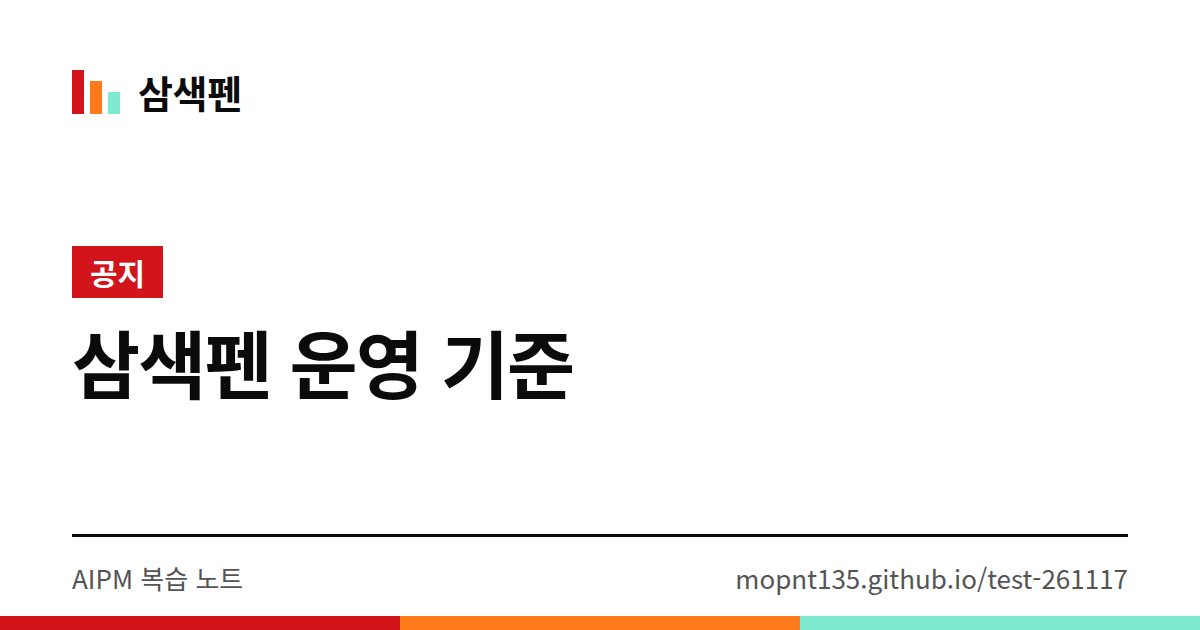
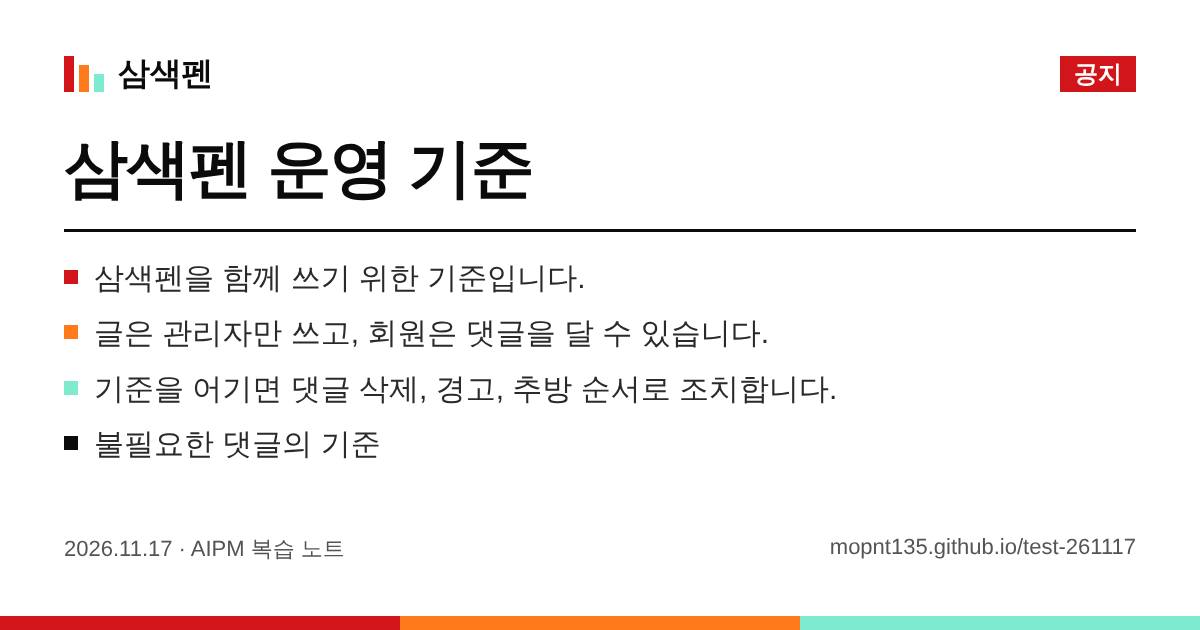
썸네일에 글 내용과 첫 첨부 사진 넣기
왜: 지금까지 썸네일은 제목만 다른 같은 모양이라 글끼리 구분이 어려웠다.
사용자 요청에 따라 글 내용이 보이는 이미지로 바꾼다.

- 카드: 제목(두 줄까지) + 본문 앞 3~4줄(빨강, 주황, 민트 표시) + 날짜.
  검색 설명이 있으면 첫 줄로 쓴다.
- 공개글에 JPG, PNG, GIF 첨부가 있으면 첫 사진을 오른쪽에 넣는다.
  공개용 키로 임시 주소를 받아 내려받고, 파일 서명으로 형식을 다시 확인한다.
- 카드 디자인 번호(CARD_DESIGN)를 ?v= 에 넣어, 디자인이 바뀌면
  카카오톡도 새 그림을 가져가게 했다. 그래서 G4 기대값을 imgVersion() 으로 바꿨다.
- 테스트 G14~G17 추가: 카드 글자 처리, 앞줄 자르기, 가짜 사진과
  폴더 밖 경로 거절, 글마다 다른 1200x630 그림.
- 테스트: 생성기 17/17, 화면 61/61, 서버 25/25.

Claude-Session: https://claude.ai/code/session_017BmF8tWy4fF2npSe36hDSh

diff --git a/scripts/build-pages.js b/scripts/build-pages.js
@@ -24,6 +24,7 @@ const arg = name => { const i = args.indexOf(name); return i >= 0 ? args[i + 1] 
 const OUT = path.resolve(arg("--out") || ROOT);
 const POSTS_JSON = arg("--posts-json");
 const NO_IMAGES = args.includes("--no-images");
+const ATT_DIR = arg("--attachments-dir"); // 테스트용. Supabase 보관함 대신 이 폴더에서 첨부 사진을 읽는다
 
 const SITE_URL = "https://mopnt135.github.io/test-261117/";
 const SITE_NAME = "삼색펜";
@@ -55,13 +56,13 @@ async function loadPosts() {
   const base = `${SUPABASE_URL.replace(/\/$/, "")}/rest/v1/posts`;
   const headers = { apikey: SUPABASE_KEY, Authorization: `Bearer ${SUPABASE_KEY}` };
   const q = cols => `${base}?select=${cols}&visibility=eq.public&order=created_at.desc&limit=1000`;
-  let res = await fetch(q("id,title,body,category,summary,visibility,created_at,updated_at"), { headers });
-  if (res.status === 400) res = await fetch(q("id,title,body,category,visibility,created_at,updated_at"), { headers }); // summary 칸이 아직 없을 때
+  let res = await fetch(q("id,title,body,category,summary,visibility,created_at,updated_at,attachments"), { headers });
+  if (res.status === 400) res = await fetch(q("id,title,body,category,visibility,created_at,updated_at,attachments"), { headers }); // summary 칸이 아직 없을 때
   if (!res.ok) throw new Error(`Supabase 에서 글을 읽지 못했습니다: ${res.status}`);
   return res.json();
 }
 
-const imgVersion = p => (Date.parse(p.updated_at || p.created_at) || 0).toString(36);
+const imgVersion = p => (Date.parse(p.updated_at || p.created_at) || 0).toString(36) + CARD_DESIGN;
 const describe = p => {
   const s = (p.summary || "").trim();
   if (s) return s.slice(0, 160);
@@ -163,28 +164,85 @@ a:focus-visible{outline:3px solid var(--red);outline-offset:3px}
 `;
 }
 
-/* ---------- 썸네일 카드 (1200×630) ---------- */
-function cardHtml({ title, label, isNotice, fontCss }) {
+/* ---------- 썸네일 카드 (1200×630) ----------
+ * 글마다 다르게: 제목 + 본문 앞 세 줄(빨강, 주황, 민트 표시) + 날짜.
+ * 글에 사진(JPG, PNG, GIF)이 첨부돼 있으면 첫 사진을 오른쪽에 넣는다.
+ */
+const CARD_DESIGN = "c2"; // 카드 디자인을 바꾸면 이 값을 바꾼다. 썸네일 주소의 ?v= 가 바뀌어 카카오톡이 새로 가져간다
+const LINE_MAX = 60;
+// 사진이 있으면 세 줄(두 줄까지 줄바꿈), 없으면 네 줄
+async function cardContent(p) { const image = await thumbImage(p); return { image, lines: excerptLines(p, image ? 3 : 4) }; }
+function excerptLines(p, n = 3) {
+  const lines = String(p.body || "").split(/\n+/).map(l => l.replace(/\s+/g, " ").trim()).filter(l => l && l !== p.title);
+  const s = String(p.summary || "").trim();
+  return (s ? [s, ...lines] : lines).slice(0, n).map(l => l.length > LINE_MAX ? l.slice(0, LINE_MAX).trim() + "…" : l);
+}
+
+function cardHtml({ title, label, isNotice, date, lines = [], image, fontCss }) {
+  const withImg = !!image;
+  const tSize = title.length > (withImg ? 22 : 30) ? 54 : 64;
   return `<!doctype html><html lang="ko"><head><meta charset="utf-8"><style>
 ${fontCss || ""}
-*{box-sizing:border-box;margin:0}
+*{box-sizing:border-box;margin:0;padding:0}
 html,body{width:1200px;height:630px}
-body{background:#fff;color:#0B0B0B;font-family:"Noto Sans KR","Noto Sans CJK KR","Apple SD Gothic Neo",sans-serif;display:flex;flex-direction:column;justify-content:space-between;padding:64px 72px 0;position:relative;overflow:hidden}
-.brand{display:flex;align-items:center;gap:18px;font-size:38px;font-weight:900;letter-spacing:-.01em}
-.pens{display:flex;gap:6px;align-items:flex-end}.pens i{display:block;width:12px}
-.pens i:nth-child(1){height:44px;background:#D2141B}.pens i:nth-child(2){height:33px;background:#FF7A1A}.pens i:nth-child(3){height:22px;background:#7EEBD0}
-.label{display:inline-flex;align-items:center;gap:12px;font-size:30px;font-weight:700;color:#C2410C;margin-bottom:18px}
-.label.notice{color:#fff;background:#D2141B;padding:4px 18px}
-.label:not(.notice)::before{content:"";width:16px;height:16px;background:#D2141B}
-h1{font-size:${title.length > 34 ? 62 : 74}px;line-height:1.22;font-weight:900;letter-spacing:-.025em;display:-webkit-box;-webkit-line-clamp:3;-webkit-box-orient:vertical;overflow:hidden;word-break:keep-all}
-.foot{display:flex;justify-content:space-between;align-items:center;font-size:26px;color:#545454;padding:0 0 34px;border-top:3px solid #0B0B0B;padding-top:22px}
+body{background:#fff;color:#0B0B0B;font-family:"Noto Sans KR","Noto Sans CJK KR","Apple SD Gothic Neo",sans-serif;position:relative;overflow:hidden;display:flex;gap:44px;padding:52px 64px 66px}
+.main{flex:1;min-width:0;display:flex;flex-direction:column}
+.top{display:flex;align-items:center;justify-content:space-between;gap:16px}
+.brand{display:flex;align-items:center;gap:14px;font-size:32px;font-weight:900;letter-spacing:-.01em}
+.pens{display:flex;gap:5px;align-items:flex-end}.pens i{display:block;width:10px}
+.pens i:nth-child(1){height:36px;background:#D2141B}.pens i:nth-child(2){height:27px;background:#FF7A1A}.pens i:nth-child(3){height:18px;background:#7EEBD0}
+.label{font-size:24px;font-weight:700;color:#C2410C;white-space:nowrap}
+.label.notice{color:#fff;background:#D2141B;padding:2px 14px}
+h1{margin-top:34px;font-size:${tSize}px;line-height:1.2;font-weight:900;letter-spacing:-.025em;display:-webkit-box;-webkit-line-clamp:2;-webkit-box-orient:vertical;overflow:hidden;word-break:keep-all;padding-bottom:22px;border-bottom:3px solid #0B0B0B}
+ul{list-style:none;margin-top:24px;display:flex;flex-direction:column;gap:12px}
+li{display:flex;gap:16px;align-items:flex-start;font-size:${withImg ? 26 : 30}px;line-height:1.45;color:#2A2A2A}
+li i{flex:none;width:14px;height:14px;margin-top:${withImg ? 12 : 14}px}
+li span{display:-webkit-box;-webkit-line-clamp:${withImg ? 2 : 1};-webkit-box-orient:vertical;overflow:hidden;word-break:keep-all}
+li:nth-child(1) i{background:#D2141B}li:nth-child(2) i{background:#FF7A1A}li:nth-child(3) i{background:#7EEBD0}li:nth-child(4) i{background:#0B0B0B}
+.foot{margin-top:auto;display:flex;justify-content:space-between;font-size:22px;color:#545454}
+.pic{flex:none;width:400px;height:100%;border:3px solid #0B0B0B;background:#F4F4F4 center/cover no-repeat}
 .bars{position:absolute;left:0;right:0;bottom:0;height:14px;display:flex}.bars i{flex:1}
 </style></head><body>
-<div class="brand"><span class="pens"><i></i><i></i><i></i></span>${SITE_NAME}</div>
-<div><span class="label${isNotice ? " notice" : ""}">${esc(label)}</span><h1>${esc(title)}</h1></div>
-<div class="foot"><span>AIPM 복습 노트</span><span>mopnt135.github.io/test-261117</span></div>
+<div class="main">
+  <div class="top"><div class="brand"><span class="pens"><i></i><i></i><i></i></span>${SITE_NAME}</div><span class="label${isNotice ? " notice" : ""}">${esc(label)}</span></div>
+  <h1>${esc(title)}</h1>
+  <ul>${lines.map(l => `<li><i></i><span>${esc(l)}</span></li>`).join("")}</ul>
+  <div class="foot"><span>${esc(date || "AIPM 복습 노트")}</span><span>mopnt135.github.io/test-261117</span></div>
+</div>
+${withImg ? `<div class="pic" style="background-image:url('${image}')"></div>` : ""}
 <div class="bars"><i style="background:#D2141B"></i><i style="background:#FF7A1A"></i><i style="background:#7EEBD0"></i></div>
 </body></html>`;
+}
+
+/* 첨부 사진 가져오기. 형식은 파일 앞부분(서명)으로 다시 확인하고, 아니면 사진 없이 그린다 */
+const IMG_MAX = 8 * 1024 * 1024;
+const sniff = b => b[0] === 0x89 && b[1] === 0x50 && b[2] === 0x4E && b[3] === 0x47 ? "image/png"
+  : b[0] === 0xFF && b[1] === 0xD8 && b[2] === 0xFF ? "image/jpeg"
+  : b.slice(0, 4).toString("latin1") === "GIF8" ? "image/gif" : null;
+async function thumbImage(p) {
+  const a = (Array.isArray(p.attachments) ? p.attachments : []).find(x => x && /^image\/(png|jpeg|gif)$/.test(x.type) && typeof x.path === "string");
+  if (!a) return null;
+  let buf = null;
+  try {
+    if (ATT_DIR) {
+      const file = path.resolve(ATT_DIR, a.path);
+      if (!file.startsWith(path.resolve(ATT_DIR) + path.sep)) return null;
+      buf = fs.readFileSync(file);
+    } else if (SUPABASE_URL && SUPABASE_KEY) {
+      const base = SUPABASE_URL.replace(/\/$/, "") + "/storage/v1";
+      const key = a.path.split("/").map(encodeURIComponent).join("/");
+      const headers = { apikey: SUPABASE_KEY, Authorization: `Bearer ${SUPABASE_KEY}`, "Content-Type": "application/json" };
+      const r = await fetch(`${base}/object/sign/attachments/${key}`, { method: "POST", headers, body: JSON.stringify({ expiresIn: 120 }) });
+      if (!r.ok) return null;
+      const { signedURL } = await r.json();
+      const img = await fetch(base + signedURL);
+      if (!img.ok) return null;
+      buf = Buffer.from(await img.arrayBuffer());
+    }
+  } catch (e) { console.error(`${p.id}번 글 사진을 가져오지 못해 사진 없이 그립니다: ${e.message}`); return null; }
+  if (!buf || buf.length > IMG_MAX) return null;
+  const type = sniff(buf);
+  return type ? `data:${type};base64,${buf.toString("base64")}` : null;
 }
 
 function fontCssFromEnv() {
@@ -199,6 +257,7 @@ async function drawCards(cards) {
   const { chromium } = require("playwright");
   const browser = await chromium.launch();
   const page = await browser.newPage({ viewport: { width: 1200, height: 630 }, deviceScaleFactor: 1 });
+  await page.route(/^https?:/, r => r.abort()); // 카드 안에서는 바깥 주소를 불러오지 않는다
   const fontCss = fontCssFromEnv();
   for (const c of cards) {
     await page.setContent(cardHtml({ ...c, fontCss }), { waitUntil: "load" });
@@ -216,7 +275,7 @@ function sitemap(entries) {
 }
 const robots = () => `User-agent: *\nAllow: /\nSitemap: ${SITE_URL}sitemap.xml\n`;
 
-(async () => {
+async function main() {
   const notices = [readNotice("NOTICE_RULES"), readNotice("NOTICE")];
   const fetched = (await loadPosts()).filter(p => p.visibility === undefined || p.visibility === "public");
   const all = [...notices, ...fetched].filter(p => safeId(p.id) && p.title && p.body && p.created_at);
@@ -234,16 +293,19 @@ const robots = () => `User-agent: *\nAllow: /\nSitemap: ${SITE_URL}sitemap.xml\n
     const dir = path.join(pDir, safeId(p.id));
     fs.mkdirSync(dir, { recursive: true });
     fs.writeFileSync(path.join(dir, "index.html"), postPage(p));
-    cards.push({ file: path.join(dir, "og.png"), title: p.title, label: p.notice ? "공지" : p.category, isNotice: !!p.notice });
+    if (!NO_IMAGES) cards.push({ file: path.join(dir, "og.png"), title: p.title, label: p.notice ? "공지" : p.category, isNotice: !!p.notice,
+      date: `${kstDate(p.created_at)} · AIPM 복습 노트`, ...await cardContent(p) });
   }
   fs.mkdirSync(path.join(OUT, "og"), { recursive: true });
-  cards.push({ file: path.join(OUT, "og", "site.png"), title: "중요도를 세 가지 색으로 표시하는 AIPM 복습 노트", label: "블로그", isNotice: false });
+  cards.push({ file: path.join(OUT, "og", "site.png"), title: "AIPM 수업 복습 노트", label: "블로그", isNotice: false,
+    lines: ["가장 중요한 내용은 빨강으로", "함께 알아 둘 내용은 주황으로", "참고할 내용은 민트로 표시합니다"] });
   await drawCards(cards);
 
   fs.writeFileSync(path.join(OUT, "sitemap.xml"), sitemap(all.map(p => ({ loc: `${SITE_URL}p/${safeId(p.id)}/`, lastmod: p.updated_at || p.created_at }))));
   fs.writeFileSync(path.join(OUT, "robots.txt"), robots());
 
   console.log(`글 페이지 ${all.length}개 (공지 ${notices.length}, 공개글 ${all.length - notices.length})${NO_IMAGES ? ", 썸네일 생략" : `, 썸네일 ${cards.length}장`}${removed.length ? `, 지운 페이지 ${removed.join(", ")}` : ""}`);
-})().catch(e => { console.error(e.message); process.exit(1); });
+}
 
-module.exports = { describe, postPage };
+if (require.main === module) main().catch(e => { console.error(e.message); process.exit(1); });
+module.exports = { describe, postPage, cardHtml, excerptLines, imgVersion, thumbImage };

diff --git a/p/notice-rules/index.html b/p/notice-rules/index.html
@@ -12,7 +12,7 @@
 <meta property="og:title" content="삼색펜 운영 기준">
 <meta property="og:description" content="삼색펜을 함께 쓰기 위한 기준입니다. 글은 관리자만 쓰고, 회원은 댓글을 달 수 있습니다. 기준을 어기면 댓글 삭제, 경고, 추방 순서로 조치합니다. 불필요한 댓글의 기준 1. 글 주제와 관계없는 광고나 홍보 댓글…">
 <meta property="og:url" content="https://mopnt135.github.io/test-261117/p/notice-rules/">
-<meta property="og:image" content="https://mopnt135.github.io/test-261117/p/notice-rules/og.png?v=mwkcehs0">
+<meta property="og:image" content="https://mopnt135.github.io/test-261117/p/notice-rules/og.png?v=mwkcehs0c2">
 <meta property="og:image:width" content="1200">
 <meta property="og:image:height" content="630">
 <meta property="og:image:alt" content="삼색펜 운영 기준">
@@ -22,8 +22,8 @@
 <meta name="twitter:card" content="summary_large_image">
 <meta name="twitter:title" content="삼색펜 운영 기준">
 <meta name="twitter:description" content="삼색펜을 함께 쓰기 위한 기준입니다. 글은 관리자만 쓰고, 회원은 댓글을 달 수 있습니다. 기준을 어기면 댓글 삭제, 경고, 추방 순서로 조치합니다. 불필요한 댓글의 기준 1. 글 주제와 관계없는 광고나 홍보 댓글…">
-<meta name="twitter:image" content="https://mopnt135.github.io/test-261117/p/notice-rules/og.png?v=mwkcehs0">
-<script type="application/ld+json">{"@context":"https://schema.org","@type":"BlogPosting","headline":"삼색펜 운영 기준","description":"삼색펜을 함께 쓰기 위한 기준입니다. 글은 관리자만 쓰고, 회원은 댓글을 달 수 있습니다. 기준을 어기면 댓글 삭제, 경고, 추방 순서로 조치합니다. 불필요한 댓글의 기준 1. 글 주제와 관계없는 광고나 홍보 댓글…","image":"https://mopnt135.github.io/test-261117/p/notice-rules/og.png?v=mwkcehs0","url":"https://mopnt135.github.io/test-261117/p/notice-rules/","mainEntityOfPage":"https://mopnt135.github.io/test-261117/p/notice-rules/","datePublished":"2026-11-17T13:00:00+09:00","dateModified":"2026-11-17T16:00:00+09:00","articleSection":"공지","inLanguage":"ko-KR","author":{"@type":"Organization","name":"삼색펜"},"publisher":{"@type":"Organization","name":"삼색펜"}}</script>
+<meta name="twitter:image" content="https://mopnt135.github.io/test-261117/p/notice-rules/og.png?v=mwkcehs0c2">
+<script type="application/ld+json">{"@context":"https://schema.org","@type":"BlogPosting","headline":"삼색펜 운영 기준","description":"삼색펜을 함께 쓰기 위한 기준입니다. 글은 관리자만 쓰고, 회원은 댓글을 달 수 있습니다. 기준을 어기면 댓글 삭제, 경고, 추방 순서로 조치합니다. 불필요한 댓글의 기준 1. 글 주제와 관계없는 광고나 홍보 댓글…","image":"https://mopnt135.github.io/test-261117/p/notice-rules/og.png?v=mwkcehs0c2","url":"https://mopnt135.github.io/test-261117/p/notice-rules/","mainEntityOfPage":"https://mopnt135.github.io/test-261117/p/notice-rules/","datePublished":"2026-11-17T13:00:00+09:00","dateModified":"2026-11-17T16:00:00+09:00","articleSection":"공지","inLanguage":"ko-KR","author":{"@type":"Organization","name":"삼색펜"},"publisher":{"@type":"Organization","name":"삼색펜"}}</script>
 <link rel="preconnect" href="https://fonts.googleapis.com">
 <link rel="stylesheet" href="https://fonts.googleapis.com/css2?family=Gothic+A1:wght@700;900&family=IBM+Plex+Sans+KR:wght@400;700&display=swap">
 <style>

diff --git a/p/notice/index.html b/p/notice/index.html
@@ -12,7 +12,7 @@
 <meta property="og:title" content="삼색펜 이용 안내">
 <meta property="og:description" content="삼색펜에 오신 것을 환영합니다. 이 블로그는 아래 규칙으로 운영됩니다. 1. 글은 관리자만 씁니다. 로그인하지 않은 방문자도 공개된 글을 모두 읽을 수 있습니다. 2. 댓글은 로그인한 회원이 달 수 있습니다. 회원가…">
 <meta property="og:url" content="https://mopnt135.github.io/test-261117/p/notice/">
-<meta property="og:image" content="https://mopnt135.github.io/test-261117/p/notice/og.png?v=mwka9c00">
+<meta property="og:image" content="https://mopnt135.github.io/test-261117/p/notice/og.png?v=mwka9c00c2">
 <meta property="og:image:width" content="1200">
 <meta property="og:image:height" content="630">
 <meta property="og:image:alt" content="삼색펜 이용 안내">
@@ -22,8 +22,8 @@
 <meta name="twitter:card" content="summary_large_image">
 <meta name="twitter:title" content="삼색펜 이용 안내">
 <meta name="twitter:description" content="삼색펜에 오신 것을 환영합니다. 이 블로그는 아래 규칙으로 운영됩니다. 1. 글은 관리자만 씁니다. 로그인하지 않은 방문자도 공개된 글을 모두 읽을 수 있습니다. 2. 댓글은 로그인한 회원이 달 수 있습니다. 회원가…">
-<meta name="twitter:image" content="https://mopnt135.github.io/test-261117/p/notice/og.png?v=mwka9c00">
-<script type="application/ld+json">{"@context":"https://schema.org","@type":"BlogPosting","headline":"삼색펜 이용 안내","description":"삼색펜에 오신 것을 환영합니다. 이 블로그는 아래 규칙으로 운영됩니다. 1. 글은 관리자만 씁니다. 로그인하지 않은 방문자도 공개된 글을 모두 읽을 수 있습니다. 2. 댓글은 로그인한 회원이 달 수 있습니다. 회원가…","image":"https://mopnt135.github.io/test-261117/p/notice/og.png?v=mwka9c00","url":"https://mopnt135.github.io/test-261117/p/notice/","mainEntityOfPage":"https://mopnt135.github.io/test-261117/p/notice/","datePublished":"2026-11-17T09:00:00+09:00","dateModified":"2026-11-17T15:00:00+09:00","articleSection":"공지","inLanguage":"ko-KR","author":{"@type":"Organization","name":"삼색펜"},"publisher":{"@type":"Organization","name":"삼색펜"}}</script>
+<meta name="twitter:image" content="https://mopnt135.github.io/test-261117/p/notice/og.png?v=mwka9c00c2">
+<script type="application/ld+json">{"@context":"https://schema.org","@type":"BlogPosting","headline":"삼색펜 이용 안내","description":"삼색펜에 오신 것을 환영합니다. 이 블로그는 아래 규칙으로 운영됩니다. 1. 글은 관리자만 씁니다. 로그인하지 않은 방문자도 공개된 글을 모두 읽을 수 있습니다. 2. 댓글은 로그인한 회원이 달 수 있습니다. 회원가…","image":"https://mopnt135.github.io/test-261117/p/notice/og.png?v=mwka9c00c2","url":"https://mopnt135.github.io/test-261117/p/notice/","mainEntityOfPage":"https://mopnt135.github.io/test-261117/p/notice/","datePublished":"2026-11-17T09:00:00+09:00","dateModified":"2026-11-17T15:00:00+09:00","articleSection":"공지","inLanguage":"ko-KR","author":{"@type":"Organization","name":"삼색펜"},"publisher":{"@type":"Organization","name":"삼색펜"}}</script>
 <link rel="preconnect" href="https://fonts.googleapis.com">
 <link rel="stylesheet" href="https://fonts.googleapis.com/css2?family=Gothic+A1:wght@700;900&family=IBM+Plex+Sans+KR:wght@400;700&display=swap">
 <style>

diff --git a/docs/ARCHITECTURE.md b/docs/ARCHITECTURE.md
@@ -148,13 +148,13 @@ flowchart LR
 | --- | --- |
 | `scripts/build-pages.js` | 생성기. 의존 패키지 없음(썸네일만 Playwright). 공개글만 만들고, 공개가 아니게 된 글의 폴더는 지운다 |
 | `p/<글번호>/index.html` | 글 제목, 설명, 대표 주소(canonical), og/twitter 태그, BlogPosting 구조화 데이터, 본문, "블로그에서 보고 댓글 달기" 링크 |
-| `p/<글번호>/og.png` | 삼색펜 디자인의 제목 카드. 첨부 사진은 비공개 임시 주소라 썸네일로 쓸 수 없어 따로 그린다 |
+| `p/<글번호>/og.png` | 글마다 다른 썸네일. 제목, 본문 앞줄(빨강, 주황, 민트 표시, 사진 없으면 4줄), 날짜를 넣는다. 글에 사진(JPG, PNG, GIF)이 첨부돼 있으면 첫 사진을 오른쪽에 넣는다. 사진은 공개용 키로 임시 주소를 받아 내려받고, 파일 앞부분으로 형식을 다시 확인한다 |
 | `og/site.png` | 첫 화면 공유용 카드 |
 | `sitemap.xml`, `robots.txt` | 검색엔진에 페이지 목록을 알려준다 |
 | `.github/workflows/seo-pages.yml` | 매일 06:17, 18:17 KST 와 index.html 이 바뀔 때 생성기를 돌리고 바뀐 파일을 커밋 |
 
 - 설명 순서: 글의 `summary` → 없으면 본문 앞 120자.
-- 썸네일 주소 끝에 `?v=<고친 시각>` 을 붙인다. 카카오톡은 그림을 주소 기준으로 오래 기억하므로, 글을 고치면 주소가 바뀌어 새 그림을 가져간다.
+- 썸네일 주소 끝에 `?v=<고친 시각><카드 디자인 번호>` 를 붙인다. 카드 모양을 바꾸면 `CARD_DESIGN` 값을 바꾼다. 카카오톡은 그림을 주소 기준으로 오래 기억하므로, 글을 고치면 주소가 바뀌어 새 그림을 가져간다.
 - 글 상세 화면의 "공유 링크 복사"는 `p/<글번호>/` 주소를 준다. 나만보기 글에는 버튼이 없다.
 - 화면이 바뀔 때 `meta description` 도 바꾸지만, 이것은 자바스크립트를 실행하는 검색엔진에만 의미가 있다.
 - `p/`, `og/`, `sitemap.xml`, `robots.txt` 는 **생성 결과물이다. 손으로 고치지 않는다.** `tests/pages_test.js` G12 가 확인한다.

diff --git a/docs/TASKS.md b/docs/TASKS.md
@@ -54,4 +54,5 @@
 | 공지에 적힌 "로그인 때 경고 안내"가 아직 없음 | 회원이 경고 사실을 모를 수 있음 | 주황 |
 | 새 글의 검색·공유 페이지가 늦게 생김 | 글을 올린 직후 공유하면 미리보기가 안 나옴 | 하루 2번 자동, Actions 에서 직접 실행 가능 |
 | 카카오톡, 페이스북은 미리보기를 기억해 둠 | 글 제목을 바꿔도 예전 미리보기가 보일 수 있음 | 썸네일 주소에 ?v= 를 붙여 그림은 새로 받게 함. 제목, 설명은 카카오 공유 디버거에서 캐시를 지워야 함 |
+| 썸네일에 들어간 첨부 사진이 GitHub 저장소에 남음 | 글을 지우거나 나만보기로 바꿔도 예전 커밋 기록에는 사진이 남는다 | 민감한 사진은 공개글의 첫 사진으로 두지 않는다 |
 | Supabase 무료 요금제 용량 한도 | 첨부가 많아지면 한도에 닿을 수 있음 | 최신 한도 확인 필요 |
